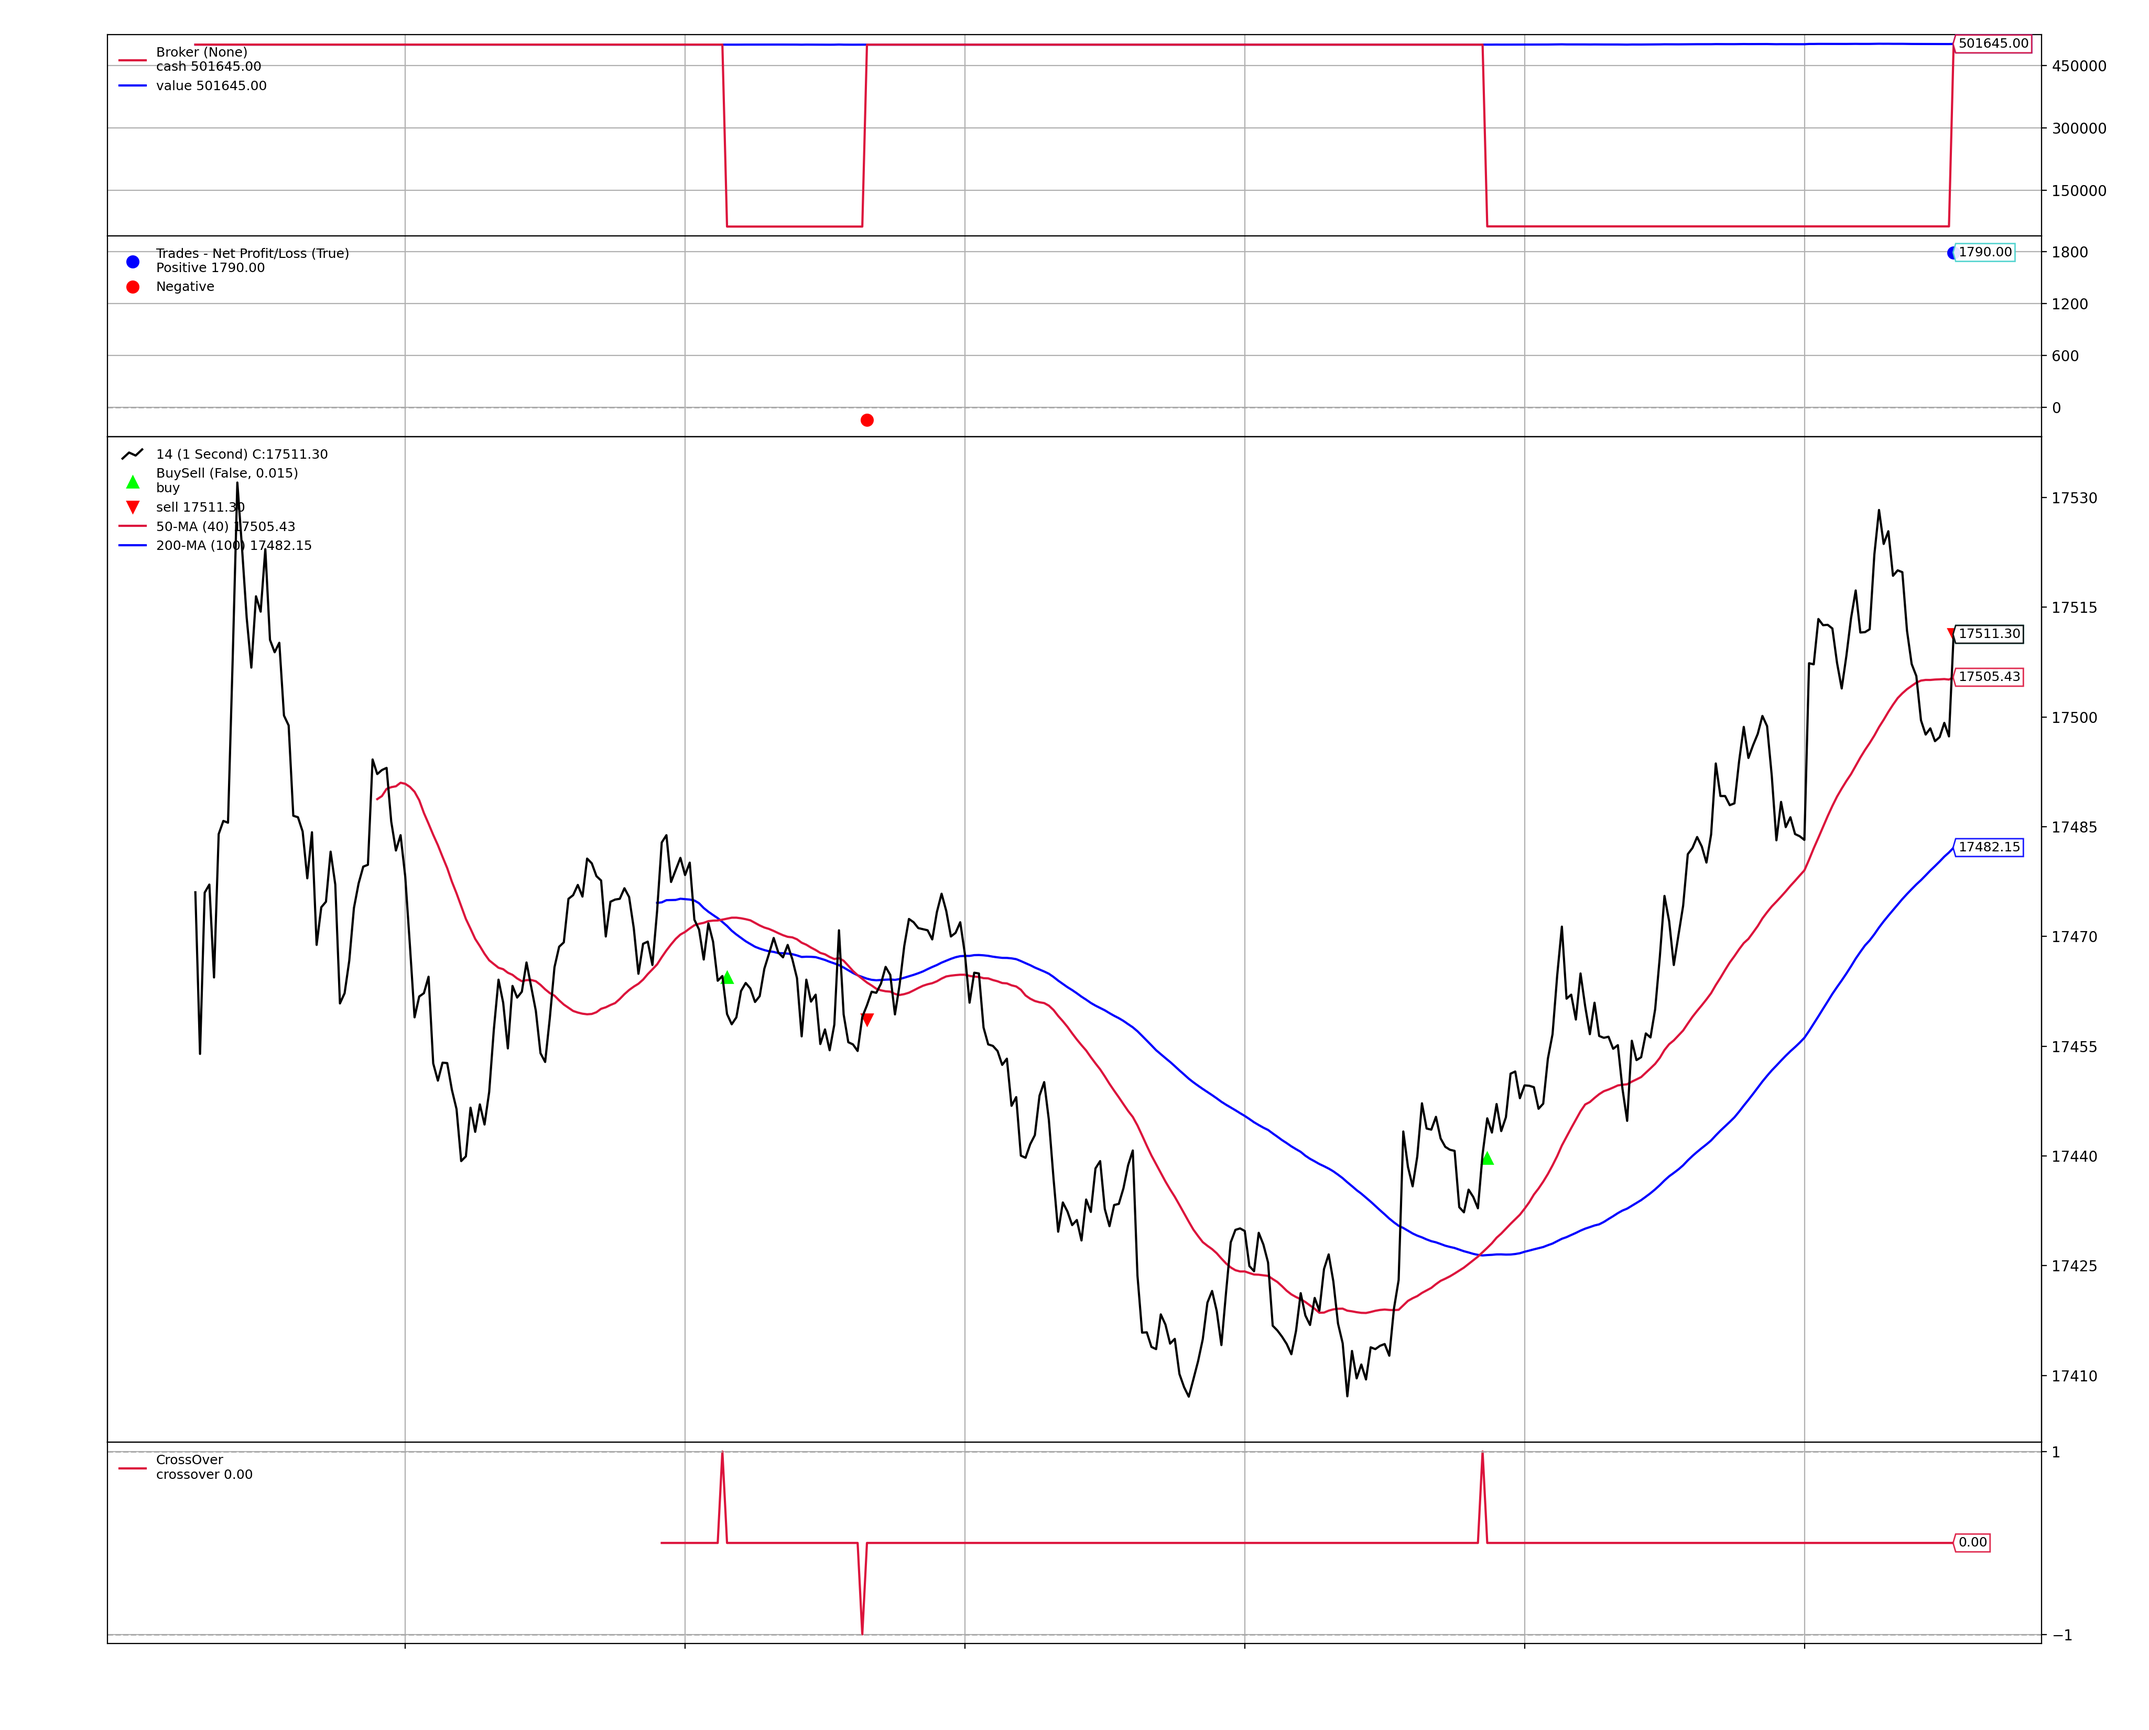
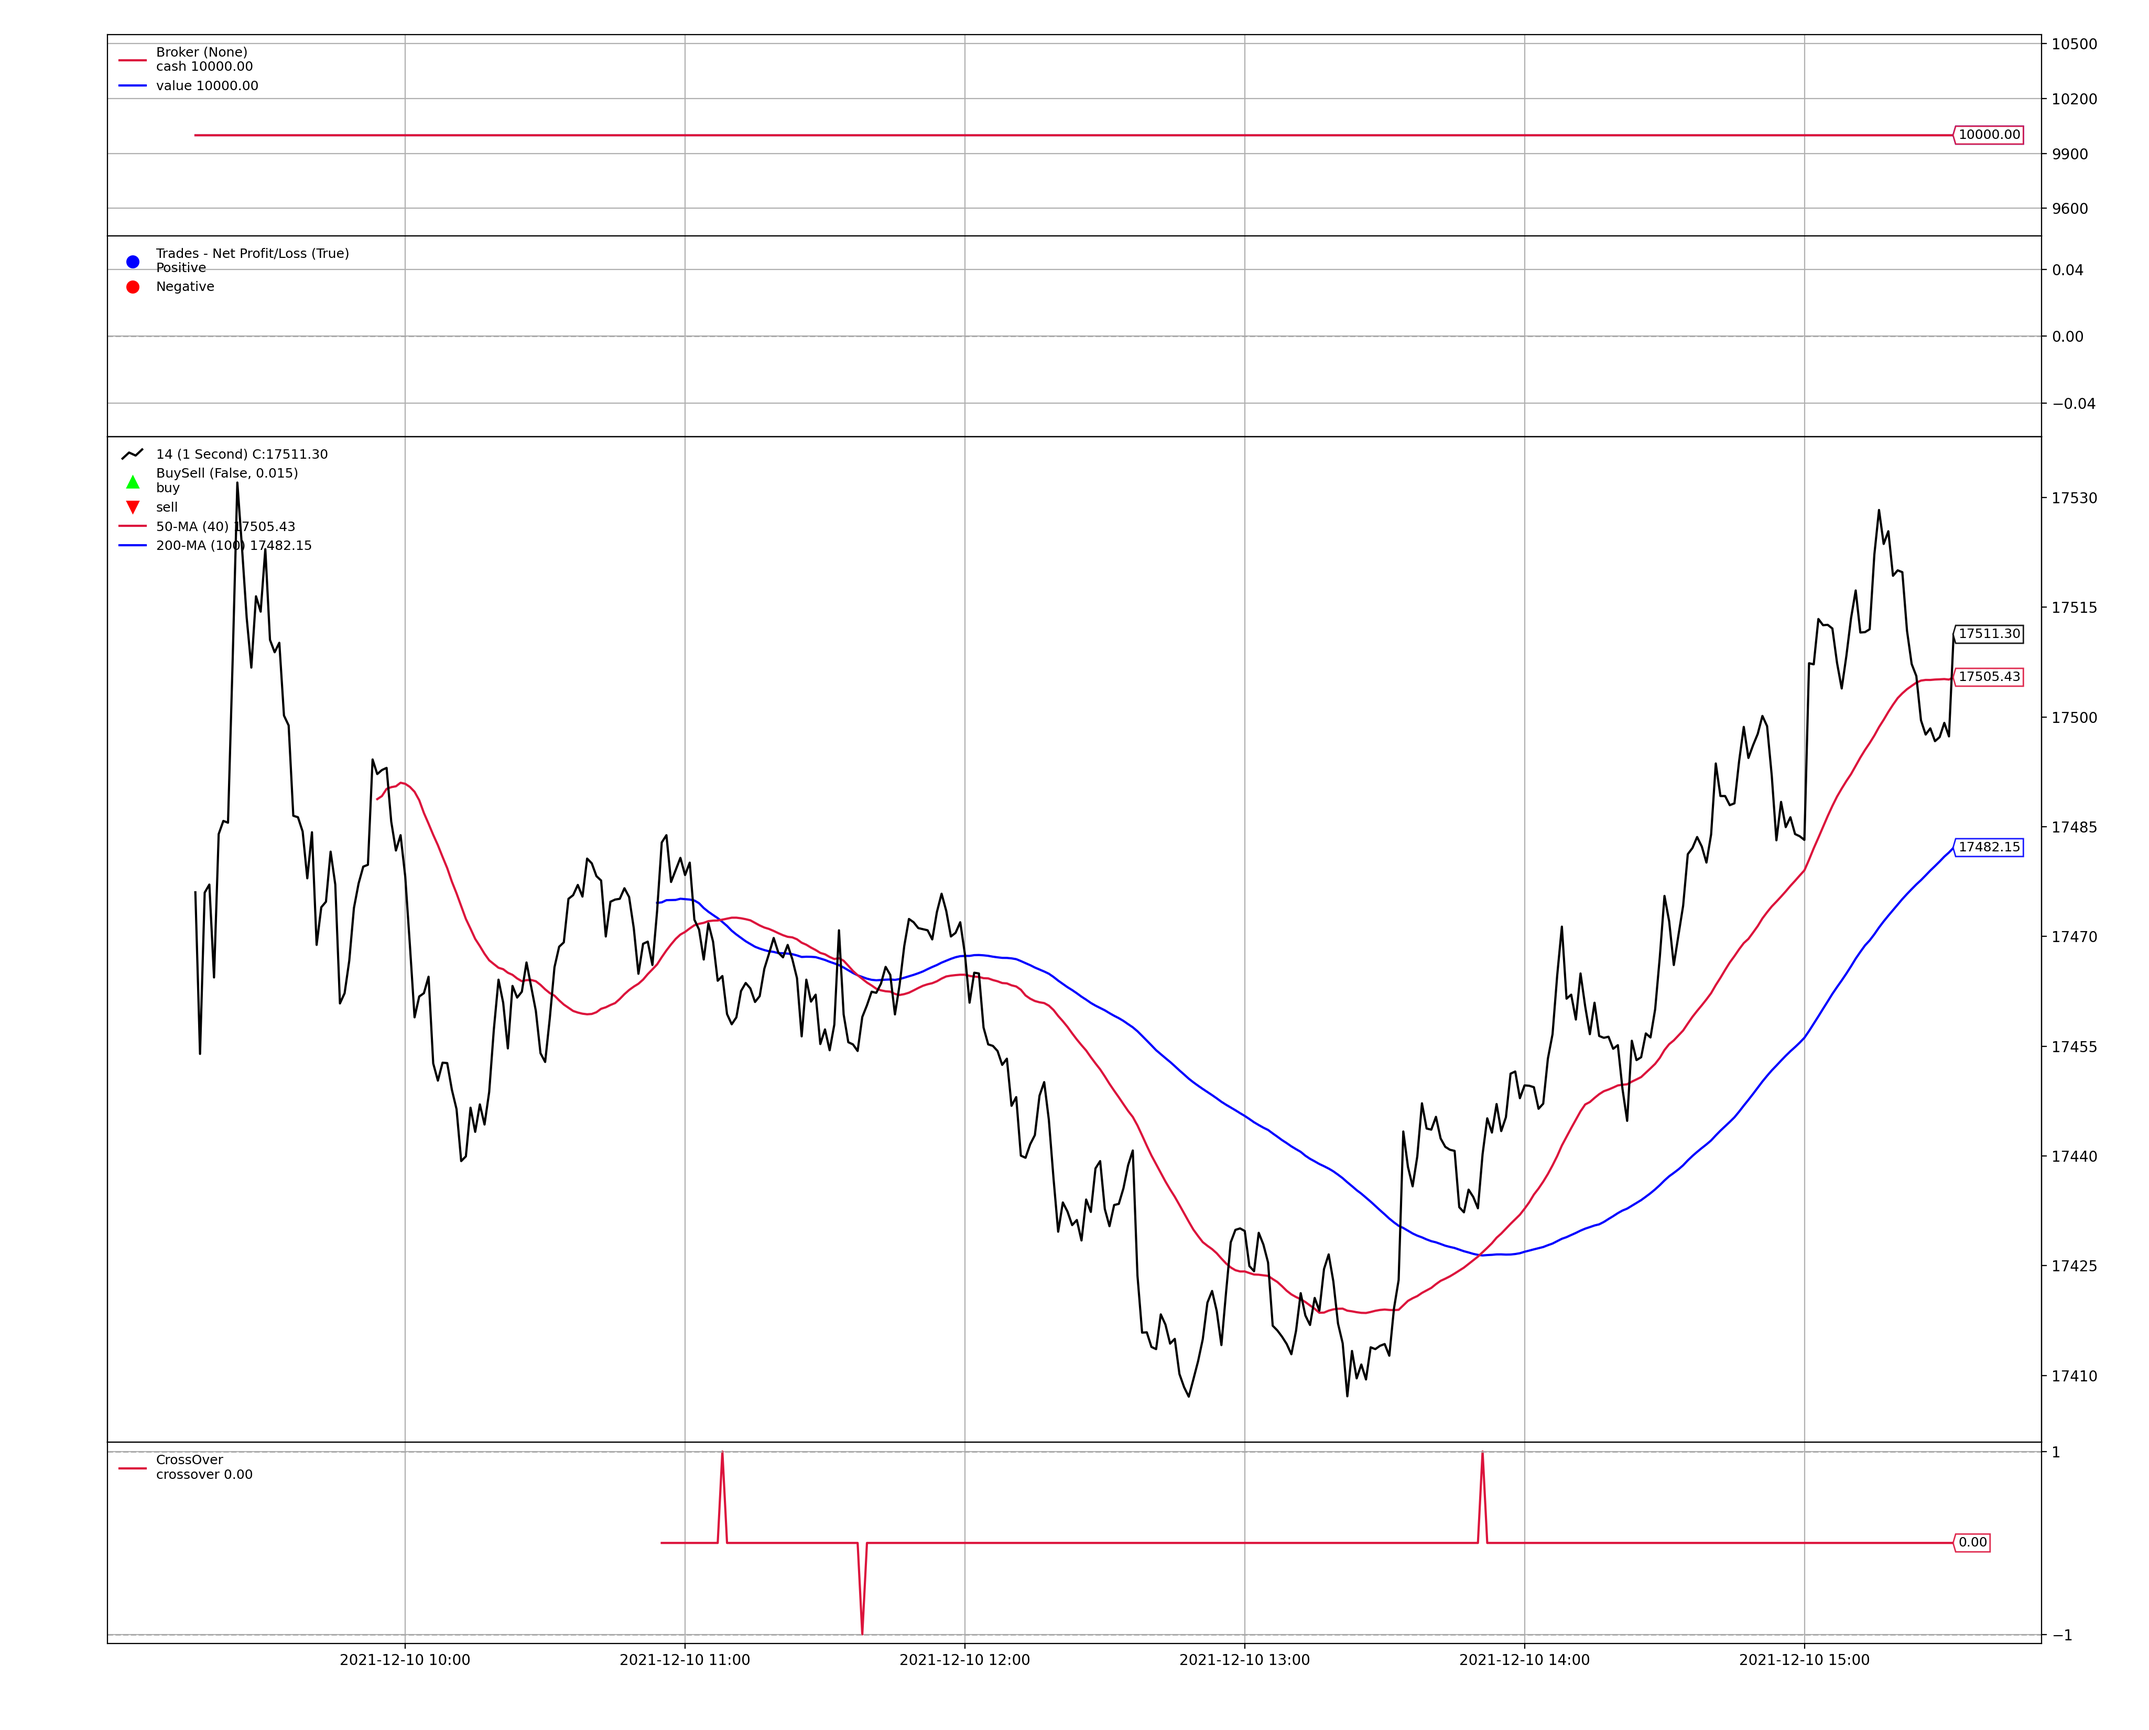
adding zerodha integration wip

diff --git a/trade/broker/zerodha.py b/trade/broker/zerodha.py
@@ -1,0 +1,106 @@
+from backtrader.brokers.bbroker import BackBroker
+from backtrader.order import BuyOrder, SellOrder
+
+from jugaad_trader import Zerodha
+# kite = Zerodha()
+ 
+# # Set access token loads the stored session.
+# # Name chosen to keep it compatible with kiteconnect.
+# kite.set_access_token()
+
+# # Get profile
+# profile = kite.profile()
+# print(profile)
+
+# # Get margin
+# margins = kite.margins()
+# print(margins)
+
+# # Get holdings
+# holdings = kite.holdings()
+# print(holdings)
+
+# # Get today's positions
+# positions = kite.positions()
+# print(positions)
+
+# # Get today's orders
+# orders = kite.orders()
+# print(orders)
+
+# # Finally placing an order
+# order_resp = kite.place_order(variety=Zerodha.VARIETY_REGULAR,
+# 			tradingsymbol="INFY",
+# 			exchange=kite.EXCHANGE_NSE,
+# 			transaction_type=kite.TRANSACTION_TYPE_BUY,
+# 			quantity=1,
+# 			order_type=kite.ORDER_TYPE_MARKET,
+# 			product=kite.PRODUCT_CNC)
+# print(order_resp)
+
+
+
+class Broker(BackBroker):
+    def __init__(self):
+        super(Broker, self).__init__()
+        self.kite = Zerodha()
+        self.kite.set_access_token()
+        profile = self.kite.profile()
+        print(profile)
+
+    def buy(self, owner, data,
+            size, price=None, plimit=None,
+            exectype=None, valid=None, tradeid=0, oco=None,
+            trailamount=None, trailpercent=None,
+            parent=None, transmit=True,
+            histnotify=False, _checksubmit=True,tradingsymbol=None,
+            **kwargs):
+
+        order = BuyOrder(owner=owner, data=data,
+                         size=size, price=price, pricelimit=plimit,
+                         exectype=exectype, valid=valid, tradeid=tradeid,
+                         trailamount=trailamount, trailpercent=trailpercent,
+                         parent=parent, transmit=transmit,
+                         histnotify=histnotify)
+        
+        self.place_order_kite(self.kite.TRANSACTION_TYPE_BUY, tradingsymbol, size)
+
+        order.addinfo(**kwargs)
+        self._ocoize(order, oco)
+
+        return self.submit(order, check=_checksubmit)
+
+    def sell(self, owner, data,
+             size, price=None, plimit=None,
+             exectype=None, valid=None, tradeid=0, oco=None,
+             trailamount=None, trailpercent=None,
+             parent=None, transmit=True,
+             histnotify=False, _checksubmit=True,tradingsymbol=None,
+             **kwargs):
+
+        order = SellOrder(owner=owner, data=data,
+                          size=size, price=price, pricelimit=plimit,
+                          exectype=exectype, valid=valid, tradeid=tradeid,
+                          trailamount=trailamount, trailpercent=trailpercent,
+                          parent=parent, transmit=transmit,
+                          histnotify=histnotify)
+        
+        self.place_order_kite(self.kite.TRANSACTION_TYPE_SELL, tradingsymbol, size)
+
+        order.addinfo(**kwargs)
+        self._ocoize(order, oco)
+
+        return self.submit(order, check=_checksubmit)
+    
+    def place_order_kite(self, order_type, tradingsymbol, size):
+        print(f'DUMMY ORDER PLACE {order_type}, {tradingsymbol}, {size}')
+        
+        # order_resp = self.kite.place_order(variety=Zerodha.VARIETY_REGULAR,
+        #         tradingsymbol=tradingsymbol,
+        #         exchange=self.kite.EXCHANGE_NSE,
+        #         transaction_type=self.kite.TRANSACTION_TYPE_BUY,
+        #         quantity=size,
+        #         order_type=self.kite.ORDER_TYPE_MARKET,
+        #         product=self.kite.PRODUCT_CNC)
+        
+        # print(order_resp)

diff --git a/trade/scripts/prod.py b/trade/scripts/prod.py
@@ -1,3 +1,4 @@
+import imp
 import _initpaths
 import hydra
 from omegaconf import DictConfig, OmegaConf
@@ -22,9 +23,20 @@ def get_data_feed(config):
     
     return data_feed
 
+def get_broker(config):
+    # if config['test']==False:
+    #     from backtrader.brokers.bbroker import BackBroker as Broker
+
+    if config['broker']['name'] == 'zerodha':
+        from trade.broker.zerodha import Broker
+
+    return Broker
+
 def get_stratergy(config):
     if config['stratergy']['name'] == 'golden_cross':
         from trade.stratergy.golden_cross import Strategy
+    if config['stratergy']['name'] == 'test':
+        from trade.stratergy.test import Strategy
     
     return Strategy
 
@@ -49,6 +61,9 @@ def my_app(config):
     data_feed = get_data_feed(config)
     cerebro.adddata(data_feed)
 
+    broker = get_broker(config)
+    cerebro.broker = broker()
+    
     Strategy = get_stratergy(config)
     cerebro.addstrategy(Strategy)
 

diff --git a/trade/data_feeds/jdata_index_live.py b/trade/data_feeds/jdata_index_live.py
@@ -41,7 +41,7 @@ class DataFeed(bt.feeds.GenericCSVData):
             line = get_live_index_data_line(self.index_name__)
             self.output_file_object.write(line)
             self.output_file_object.flush()
-            time.sleep(5)
+            time.sleep(30)
         else:
             line = self.f.readline()
 
